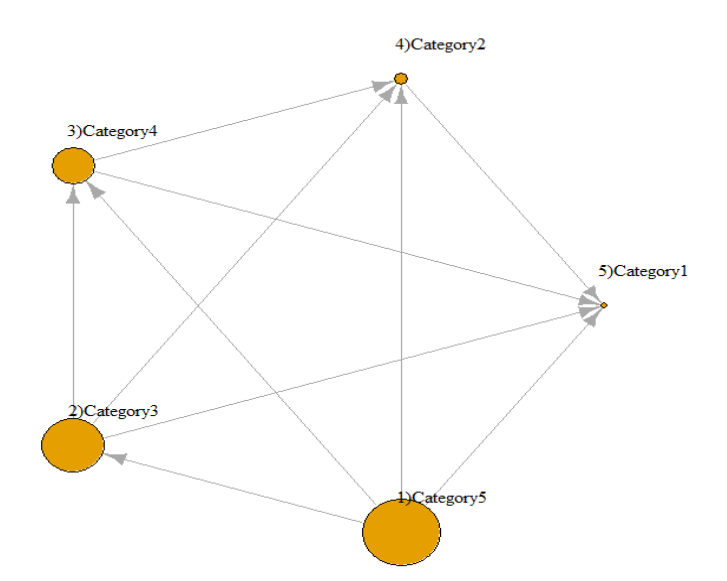
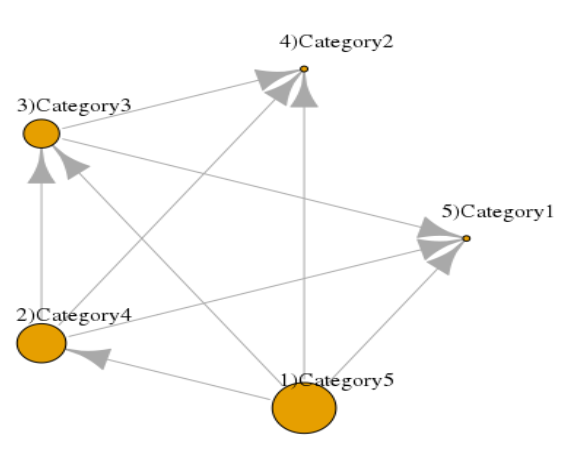
Update Readme
[ci skip]

diff --git a/README.md b/README.md
@@ -38,11 +38,11 @@ std=8
 simData1<-c()
 simData1$Values<-rnorm(nInv,mean=initMean,sd=std)
 simData1$Group<-rep(c("Category1"),times=nInv)
-simData1$Values<-c(simData1$Values,rnorm(nInv,mean=initMean+5,sd=std) )
+simData1$Values<-c(simData1$Values,rnorm(nInv,mean=initMean,sd=std) )
 simData1$Group<-c(simData1$Group,rep(c("Category2"),times=nInv))
-simData1$Values<-c(simData1$Values,rnorm(nInv,mean=initMean+3*stepMean,sd=std) )
-simData1$Group<-c(simData1$Group,rep(c("Category3"),times=nInv) )
 simData1$Values<-c(simData1$Values,rnorm(nInv,mean=initMean+2*stepMean,sd=std) )
+simData1$Group<-c(simData1$Group,rep(c("Category3"),times=nInv) )
+simData1$Values<-c(simData1$Values,rnorm(nInv,mean=initMean+3*stepMean,sd=std) )
 simData1$Group<-c(simData1$Group, rep(c("Category4"),times=nInv) )
 simData1$Values<-c(simData1$Values,rnorm(nInv,mean=initMean+4*stepMean,sd=std) )
 simData1$Group<-c(simData1$Group, rep(c("Category5"),times=nInv) )
@@ -56,7 +56,7 @@ A1<-EDOIF(simData1$Values,simData1$Group, bootT=bootT, alpha=alpha, methodType =
 
 #== Visualizing results
 print(A1) # print the results in text mode
-plot(A1, fontSize=15) # print the results in graphic mode
+plot(A1, fontSize=10) # print the results in graphic mode
 ```
 **Graphic mode results**
 1. An alpha-confidence-interval of mean plot for five categories. The horizontal axis represents categories and the vertical axis represents values within distributions of categories.
@@ -76,56 +76,56 @@ EDOIF (Empirical Distribution Ordering Inference Framework) v0.1.0
 Alpha = 0.050000, Number of bootstrap resamples = 1000, CI type = perc
 Using Mann-Whitney test to report whether A ≺ B
 A dominant-distribution network density:0.900000
-Distribution: C1
-Mean:9.403081 95CI:[ 7.943062,10.886054]
-Distribution: C2
-Mean:10.793221 95CI:[ 9.322045,12.275161]
-Distribution: C3
-Mean:49.551156 95CI:[ 48.177049,51.039258]
-Distribution: C4
-Mean:69.328283 95CI:[ 67.836297,70.803232]
-Distribution: C5
-Mean:89.713031 95CI:[ 88.133896,91.266592]
+Distribution: Category1
+Mean:10.840671 95CI:[ 9.706981,12.014179]
+Distribution: Category2
+Mean:11.044785 95CI:[ 9.806991,12.446037]
+Distribution: Category3
+Mean:50.462935 95CI:[ 49.208005,51.757706]
+Distribution: Category4
+Mean:70.299726 95CI:[ 69.103924,71.502505]
+Distribution: Category5
+Mean:91.190505 95CI:[ 89.895480,92.518455]
 =======================================================
-Mean difference of C2 (n=100) minus C1 (n=100): C1 ⊀ C2
- :p-val 0.1282
-Mean Diff:1.390141 95CI:[ -0.767363,3.359817]
+Mean difference of Category2 (n=150) minus Category1 (n=150): Category1 ⊀ Category2
+ :p-val 0.4463
+Mean Diff:0.204114 95CI:[ -1.545130,1.930609]
 
-Mean difference of C3 (n=100) minus C1 (n=100): C1 ≺ C3
+Mean difference of Category3 (n=150) minus Category1 (n=150): Category1 ≺ Category3
  :p-val 0.0000
-Mean Diff:40.148076 95CI:[ 38.081515,42.079406]
+Mean Diff:39.622264 95CI:[ 37.984831,41.378232]
 
-Mean difference of C4 (n=100) minus C1 (n=100): C1 ≺ C4
+Mean difference of Category4 (n=150) minus Category1 (n=150): Category1 ≺ Category4
  :p-val 0.0000
-Mean Diff:59.925203 95CI:[ 57.909290,62.081954]
+Mean Diff:59.459055 95CI:[ 57.921328,61.127817]
 
-Mean difference of C5 (n=100) minus C1 (n=100): C1 ≺ C5
+Mean difference of Category5 (n=150) minus Category1 (n=150): Category1 ≺ Category5
  :p-val 0.0000
-Mean Diff:80.309950 95CI:[ 78.172896,82.411290]
+Mean Diff:80.349835 95CI:[ 78.620391,82.133270]
 
-Mean difference of C3 (n=100) minus C2 (n=100): C2 ≺ C3
+Mean difference of Category3 (n=150) minus Category2 (n=150): Category2 ≺ Category3
  :p-val 0.0000
-Mean Diff:38.757935 95CI:[ 36.706719,40.771157]
+Mean Diff:39.418150 95CI:[ 37.543210,41.241722]
 
-Mean difference of C4 (n=100) minus C2 (n=100): C2 ≺ C4
+Mean difference of Category4 (n=150) minus Category2 (n=150): Category2 ≺ Category4
  :p-val 0.0000
-Mean Diff:58.535062 95CI:[ 56.389398,60.730171]
+Mean Diff:59.254941 95CI:[ 57.304359,61.098774]
 
-Mean difference of C5 (n=100) minus C2 (n=100): C2 ≺ C5
+Mean difference of Category5 (n=150) minus Category2 (n=150): Category2 ≺ Category5
  :p-val 0.0000
-Mean Diff:78.919810 95CI:[ 76.617883,80.863333]
+Mean Diff:80.145720 95CI:[ 78.313321,82.040234]
 
-Mean difference of C4 (n=100) minus C3 (n=100): C3 ≺ C4
+Mean difference of Category4 (n=150) minus Category3 (n=150): Category3 ≺ Category4
  :p-val 0.0000
-Mean Diff:19.777127 95CI:[ 17.769473,21.850950]
+Mean Diff:19.836791 95CI:[ 18.047421,21.762239]
 
-Mean difference of C5 (n=100) minus C3 (n=100): C3 ≺ C5
+Mean difference of Category5 (n=150) minus Category3 (n=150): Category3 ≺ Category5
  :p-val 0.0000
-Mean Diff:40.161875 95CI:[ 38.072241,42.040509]
+Mean Diff:40.727570 95CI:[ 39.004372,42.627946]
 
-Mean difference of C5 (n=100) minus C4 (n=100): C4 ≺ C5
+Mean difference of Category5 (n=150) minus Category4 (n=150): Category4 ≺ Category5
  :p-val 0.0000
-Mean Diff:20.384748 95CI:[ 18.300014,22.516306]
+Mean Diff:20.890780 95CI:[ 19.079287,22.625807]
 
 ```
 Contact
